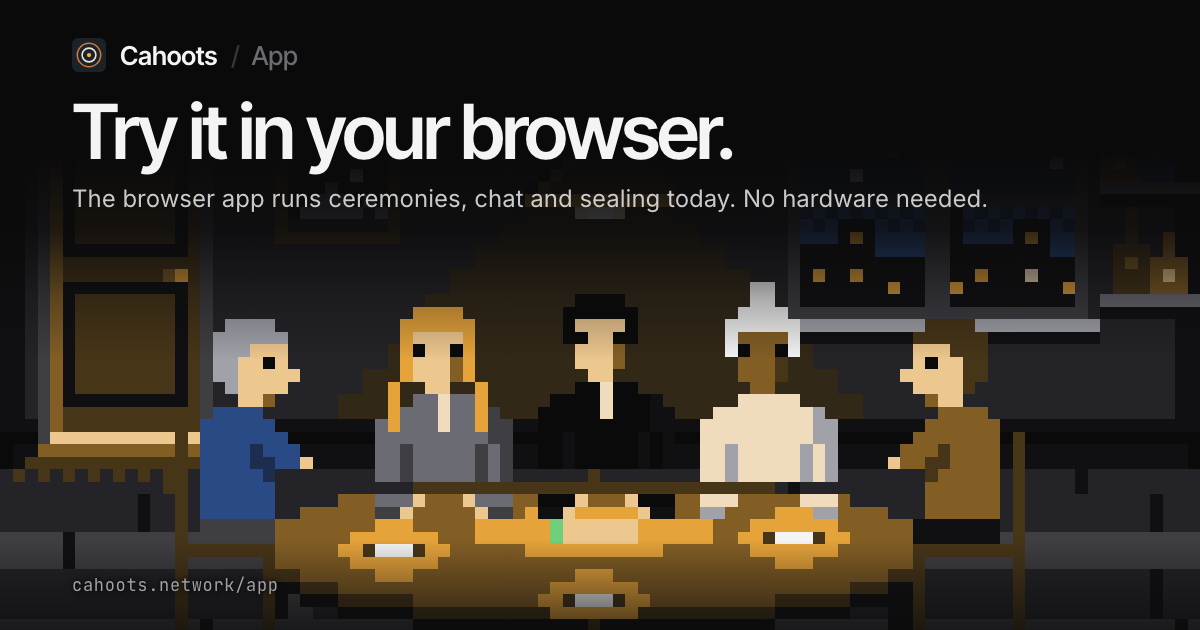
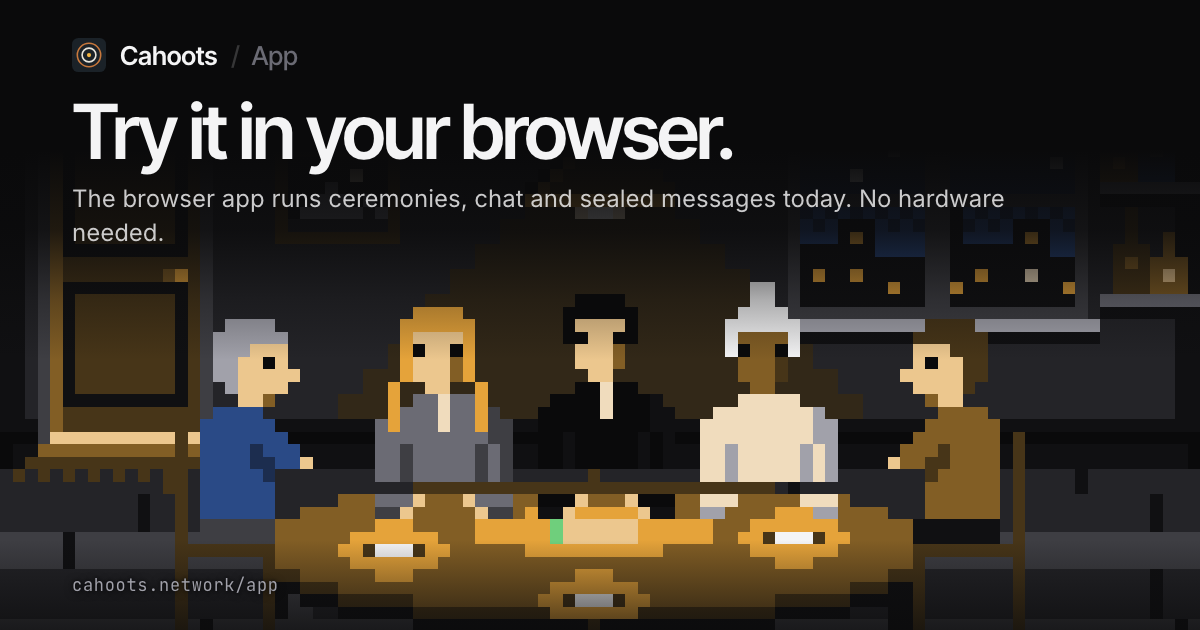
Fixes from the final review: the hero and the card's assurance line say being built, two comments point at the real words screen, small notes pass contrast, and the board render is resized

Changed region(s): [[0.5242, 0.3016, 0.8325, 0.3317], [0.0617, 0.3619, 0.1542, 0.3921]]

diff --git a/site/index.html b/site/index.html
@@ -48,7 +48,7 @@
   <div class="wrap hero-copy">
     <p class="eyebrow">A private network for people who have met</p>
     <h1 id="hero-title">Get in cahoots.</h1>
-    <p class="lede">A circle of people meets once, for five minutes, in a room. After that they can message, log in and tunnel to each other with keys no server ever had. The card in your wallet holds yours.</p>
+    <p class="lede">A circle of people meets once, for five minutes, in a room. After that they can message, log in and tunnel to each other with keys no server ever had. The card in your wallet holds yours. <span class="soon">being built</span></p>
     <div class="cta">
       <a class="btn primary" href="app/">Open the app</a>
       <a class="btn ghost" href="#how">How you get in <span aria-hidden="true">↓</span></a>
@@ -92,7 +92,7 @@
       <p class="app-note"><span class="soon">being built</span></p>
     </article>
   </div>
-  <p class="note">Today: the browser app does ceremonies, chat and sealing, and a command-line tool sets up WireGuard tunnels. The card and the logins are being built in the open.</p>
+  <p class="note">Today: the browser app does ceremonies, chat and sealed messages, and a command-line tool sets up WireGuard tunnels. The card and the logins are being built in the open.</p>
 </section>
 
 <section class="band wrap" id="how" aria-labelledby="how-title">
@@ -131,7 +131,7 @@
     <div class="way best">
       <h3>The card</h3>
       <p>The badge. Keys in a chip that proves they were made there <span class="soon">being built</span>. Both buttons pressed for every approval.</p>
-      <p class="assure"><span>Assurance</span> attested, present</p>
+      <p class="assure"><span>Assurance</span> attested <span class="soon">being built</span>, present</p>
     </div>
   </div>
   <p class="note">A circle is as safe as its least careful member. The ceremony records what each seat brought. <a href="docs/#/tiers">How assurance is measured <span aria-hidden="true">→</span></a></p>
@@ -152,7 +152,7 @@
     </div>
     <div class="plates">
       <figure class="plate board">
-        <img src="assets/v1-front.png" width="1176" height="1768" alt="The front of the V1 board: the e-paper at the top, two buttons, and three sockets at the bottom edge" loading="lazy">
+        <img src="assets/v1-front.png" width="600" height="902" alt="The front of the V1 board: the e-paper at the top, two buttons, and three sockets at the bottom edge" loading="lazy">
         <figcaption>V1, front</figcaption>
       </figure>
       <figure class="plate paper">
@@ -168,7 +168,7 @@
   <h2 id="feed-title">Post anywhere. Only your circle can read it.</h2>
   <div class="feed">
     <p class="sub">During the Cold War, radio stations read out strings of numbers that anyone could hear and only the holder of the matching code sheet could read. Cahoots posts to a public feed the same way: anyone can see the messages, only your circle can read them or post as you, and the feed keeps them in an order nobody can quietly rewrite.</p>
-    <div class="station-card" aria-label="Live feed example">
+    <div class="station-card" role="group" aria-label="Live feed example">
       <div class="station-head"><span>circle 6f8648f8</span><span>seq 41 · 25 B</span></div>
       <pre id="station-sample"></pre>
     </div>

diff --git a/site/style.css b/site/style.css
@@ -101,7 +101,7 @@ main { display: block; }
 
 .px { image-rendering: pixelated; image-rendering: crisp-edges; }
 h3 { font-family: var(--display); font-weight: 600; font-size: 17px; letter-spacing: -0.015em; margin: 0 0 8px; }
-.note { margin: 28px 0 0; color: var(--fg-3); font-family: var(--mono); font-size: 12.5px; line-height: 1.7; max-width: 760px; }
+.note { margin: 28px 0 0; color: var(--fg-2); font-family: var(--mono); font-size: 12.5px; line-height: 1.7; max-width: 760px; }
 .note a { color: var(--fg-2); text-decoration: none; white-space: nowrap; }
 .note a:hover { color: var(--fg); }
 .soon { display: inline-block; font-family: var(--mono); font-size: 10.5px; font-weight: 500; letter-spacing: 0.06em; text-transform: uppercase; color: var(--amber); border: 1px solid color-mix(in srgb, var(--amber) 35%, transparent); border-radius: 4px; padding: 1px 6px 0; line-height: 1.6; vertical-align: 2px; white-space: nowrap; }
@@ -111,7 +111,7 @@ h3 { font-family: var(--display); font-weight: 600; font-size: 17px; letter-spac
 .app { background: var(--bg-2); padding: 24px 20px 22px; display: flex; flex-direction: column; }
 .app .icon { width: 32px; height: 32px; margin-bottom: 18px; }
 .app p { color: var(--fg-2); font-size: 14.5px; line-height: 1.55; margin: 0; }
-.app .app-note { margin-top: auto; padding-top: 18px; font-size: 13px; color: var(--fg-3); }
+.app .app-note { margin-top: auto; padding-top: 18px; font-size: 13px; color: var(--fg-2); }
 @media (max-width: 1060px) { .apps { grid-template-columns: repeat(3, 1fr); } }
 @media (max-width: 760px) { .apps { grid-template-columns: repeat(2, 1fr); } }
 @media (max-width: 520px) { .apps { grid-template-columns: 1fr; } .app .icon { margin-bottom: 14px; } }
@@ -130,7 +130,7 @@ h3 { font-family: var(--display); font-weight: 600; font-size: 17px; letter-spac
 .way { background: var(--bg-2); padding: 26px 24px 22px; display: flex; flex-direction: column; }
 .way p { color: var(--fg-2); font-size: 15px; margin: 0; }
 .way .assure { margin-top: auto; padding-top: 22px; font-family: var(--mono); font-size: 12.5px; color: var(--fg); }
-.way .assure span { color: var(--fg-3); margin-right: 8px; text-transform: uppercase; letter-spacing: 0.06em; font-size: 11px; }
+.way .assure > span:first-child { color: var(--fg-3); margin-right: 8px; text-transform: uppercase; letter-spacing: 0.06em; font-size: 11px; }
 .way.best { background: linear-gradient(180deg, color-mix(in srgb, var(--amber) 10%, transparent), color-mix(in srgb, var(--amber) 2%, transparent) 70%), var(--bg-2); }
 .way.best .assure { color: var(--amber); }
 @media (max-width: 860px) { .ways { grid-template-columns: 1fr; } }

diff --git a/site/og/app.html b/site/og/app.html
@@ -5,7 +5,7 @@
   <div class="brand"><img src="../assets/mark.svg" alt="">Cahoots<span class="sub">App</span></div>
   <div>
     <h1 class="sm">Try it in your browser.</h1>
-    <p class="lede">The browser app runs ceremonies, chat and sealing today. No hardware needed.</p>
+    <p class="lede">The browser app runs ceremonies, chat and sealed messages today. No hardware needed.</p>
   </div>
   <div class="foot"><span>cahoots.network/app</span></div>
 </div>

diff --git a/site/docs/docs.js b/site/docs/docs.js
@@ -232,7 +232,7 @@ async function render() {
       content.appendChild(pager(d));
       watchHeadings();
     } catch (e) {
-      content.innerHTML = `<p>This document isn't published yet (${e.message}). It lives in the repository under <code>docs/</code>.</p>`;
+      content.innerHTML = `<p>This document isn't published yet (${e.message}). It lives in the repository.</p>`;
     }
   }
   if (sub) {

diff --git a/hardware/nano-esp32-epaper/README.md b/hardware/nano-esp32-epaper/README.md
@@ -81,7 +81,7 @@ A steps through the screens. B confirms. The serial monitor prints what each pre
 
 | Screen | Refresh | What to check |
 |---|---|---|
-| Words: circle name, tier label, six words in two columns, the confirm line | full | Can you read the six words from a normal reading distance? The layout is the site's render, `wordsScreen()` in `site/badge.js`, with the right column right-aligned. The font is FreeMono Bold at 12 px per letter and 17% taller than the stock 9pt, generated into `FreeMonoBold10pt7b.h`; a row holds 15 letters, and the one pair that cannot fit, 8 + 8 letters, drops that screen to the stock 9pt. `WORD_FONT` and `WORD_FONT_SMALL` in the sketch pick both. |
+| Words: circle name, tier label, six words in two columns, the confirm line | full | Can you read the six words from a normal reading distance? The layout is the site's render, the `words` screen in `crates/badge/src/screens.rs`, with the right column right-aligned. The font is FreeMono Bold at 12 px per letter and 17% taller than the stock 9pt, generated into `FreeMonoBold10pt7b.h`; a row holds 15 letters, and the one pair that cannot fit, 8 + 8 letters, drops that screen to the stock 9pt. `WORD_FONT` and `WORD_FONT_SMALL` in the sketch pick both. |
 | B on the words screen writes "confirmed" on the footer; B on the waiting screen counts "commits 1/4" to "4/4" | partial, footer band only | How long does a partial refresh take, and does the rest of the screen flicker? This is what `show_status()` does during a ceremony. |
 | Version 4 QR at 6 px per module, 198 px wide | full | The DIY guide's claim: a phone reads it at arm's length. Try a phone camera from 60 cm. The quiet zone is only the panel's bezel. |
 | The same QR at 5 px per module, 165 px wide | full | The fallback if the first needs a real quiet zone. |
